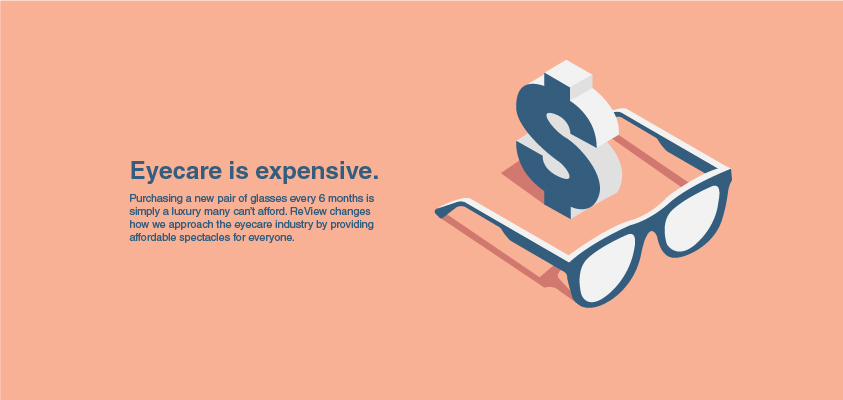
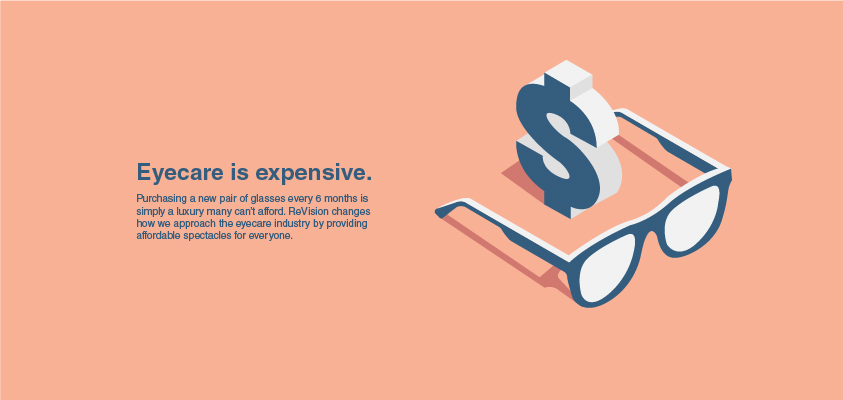
Added illustrations and further information

Changed region(s): [[0.1542, 0.48, 0.4626, 0.6], [0.1542, 0.39, 0.4626, 0.45]]

diff --git a/Code/css/styles.css b/Code/css/styles.css
@@ -1,1 +1,1 @@
-@import url("https://fonts.googleapis.com/css?family=Raleway:400,600|Roboto|Roboto+Slab|Playfair+Display|Barlow+Condensed:400,600");.card1{position:relative;flex:1 1 100%;margin:31px 0;background:#fff}.set1{color:#345d7e}.set2{width:60%;margin:0 auto}.levi{transition:transform .5s}.levi::after{position:absolute;top:0;left:0;width:100%;height:100%;transition:opacity 2s cubic-bezier(0.165, 0.84, 0.44, 1);box-shadow:0 8px 17px 0 rgba(0,0,0,0.2),0 6px 20px 0 rgba(0,0,0,0.15);content:'';opacity:0;z-index:-1}.levi:hover,.levi:focus{transform:scale3d(1.006, 1.006, 1)}.levi:hover::after,.levi:focus::after{opacity:1}.shopsp{padding-top:50px}body{padding-top:20px}a:link{text-decoration:none}a:visited{text-decoration:none}a:hover{text-decoration:underline}a:active{text-decoration:none}footer{width:100%;height:100%;background-color:#f8b195;color:#FFF}nav{background-color:#f8b195;padding-top:10px;padding-bottom:10px}h3{font-family:Raleway, sans-serif;font-size:18px}h4{font-family:Raleway, sans-serif;font-size:20px;font-weight:600}h5{font-family:'Barlow Condensed', sans-serif}.ft1{font-family:'Barlow Condensed', sans-serif;font-size:35px}.ut1{margin-top:-25px}.btn-secondary{background-color:transparent;border-color:#ccc;color:black}.btn-primary-outline{background-color:transparent;border-color:#ccc;color:white}input{border:0;outline:0;background:transparent;border-bottom:1px solid #345d7e}input,textarea{color:#345d7e}input.transparent-input{background-color:transparent !important;border:none !important}h6{font-size:13px}.ft3{font-size:25px;color:#345d7e}.ft4{color:#345d7e}.nm1{width:45px;height:45px;margin:0 auto}.new{font-family:'Barlow Condensed', sans-serif;font-weight:600;color:#345d7e}.sp1{padding-top:20px}.sp2{padding-top:15px}.cr1{color:white}.nav-link{color:white}.nav-link:hover{color:grey}.nhover{width:80px}.sb{margin-bottom:-7px}.details{font-size:15px;font-family:Raleway, sans-serif;font-weight:400;margin-top:-10px}.details2{font-size:13px;font-family:Raleway, sans-serif;font-weight:400;margin-top:-16px}.spacing12{padding-bottom:15px}.title{padding-top:13px;padding-bottom:12px}
+@import url("https://fonts.googleapis.com/css?family=Raleway:400,600|Roboto|Roboto+Slab|Playfair+Display|Barlow+Condensed:400,600");.card1{position:relative;flex:1 1 100%;margin:31px 0;background:#fff}.set1{color:#345d7e;text-align:left}.set2{margin:0 auto;text-align:left}.levi{transition:transform .5s}.levi::after{position:absolute;top:0;left:0;width:100%;height:100%;transition:opacity 2s cubic-bezier(0.165, 0.84, 0.44, 1);box-shadow:0 8px 17px 0 rgba(0,0,0,0.2),0 6px 20px 0 rgba(0,0,0,0.15);content:'';opacity:0;z-index:-1}.levi:hover,.levi:focus{transform:scale3d(1.006, 1.006, 1)}.levi:hover::after,.levi:focus::after{opacity:1}.shopsp{padding-top:50px}body{padding-top:20px}a:link{text-decoration:none}a:visited{text-decoration:none}a:hover{text-decoration:underline}a:active{text-decoration:none}footer{width:100%;height:100%;background-color:#f8b195;color:#FFF}nav{background-color:#f8b195;padding-top:10px;padding-bottom:10px}h3{font-family:Raleway, sans-serif;font-size:18px}h4{font-family:Raleway, sans-serif;font-size:20px;font-weight:600}h5{font-family:'Barlow Condensed', sans-serif}.ft1{font-family:'Barlow Condensed', sans-serif;font-size:35px}.ut1{margin-top:-25px}.btn-secondary{background-color:transparent;border-color:#ccc;color:black}.btn-primary-outline{background-color:transparent;border-color:#ccc;color:white}input{border:0;outline:0;background:transparent;border-bottom:1px solid #345d7e}input,textarea{color:#345d7e}input.transparent-input{background-color:transparent !important;border:none !important}h6{font-size:13px}.ft3{font-size:25px;color:#345d7e}.ft4{color:#345d7e}.nm1{width:75 px;height:90px;margin:0 auto}.new{font-family:'Barlow Condensed', sans-serif;font-weight:600;color:#345d7e}.sp1{padding-top:20px}.sp2{padding-top:15px}.cr1{color:white}.nav-link{color:white}.nav-link:hover{color:grey}.nhover{width:80px}.sb{margin-bottom:-7px}.details{font-size:15px;font-family:Raleway, sans-serif;font-weight:400;margin-top:-10px}.details2{font-size:13px;font-family:Raleway, sans-serif;font-weight:400;margin-top:-16px}.spacing12{padding-bottom:15px}.title{padding-top:13px;padding-bottom:12px}

diff --git a/Code/index.html b/Code/index.html
@@ -59,20 +59,53 @@
       </a>
     </div>
 
-    <div class="container text-center sp1">
+    <div class="container text-center sp1 mt-4">
     <div class="row">
-    <div class="col-lg-12 col-md-12">
+    <div class="col-lg-6 col-md-6">
 
-  <div class="intro">
-      <h1 class="set1">ReVision the Future of Eyecare</h1>
+  <div class="intro1">
+      <h2 class="set1">ReVision: The Future of Eyecare</h2>
       <p class="set2">ReVision is a platform that sells refurbished eyewear for a fraction of the original price. This allows children from low income families to afford eyewear while also encouraging people to contribute to the community.</p>
     </div>
 
     </div>
+
+    <div class="col-lg-6 col-md-6">
+
+  <div class="intro2">
+      <img src="img/logo1.png" alt="">
+    </div>
+
+    </div>
     </div>
     </div>
 
-    <div class="container text-center sp1">
+    <div class="container text-center sp1 mt-5">
+    <div class="row">
+    <div class="col-lg-6 col-md-6">
+
+  <div class="intro2">
+      <img src="img/ill2.png" alt="">
+    </div>
+
+    </div>
+
+    <div class="col-lg-6 col-md-6">
+
+  <div class="intro1">
+      <h2 class="set1">ReVision: The Community</h2>
+      <p class="set2">ReVision opens a channel for building a community that is about giving to one another.</p>
+    </div>
+
+    </div>
+
+
+    </div>
+    </div>
+
+    <hr>
+
+    <div class="container text-center sp1 mt-5">
     <div class="row">
     <div class="col-lg-4 col-md-4">
       <div class="nm1">
@@ -95,7 +128,7 @@
         <img class="img-fluid" src="img/nm3.png" alt="">
       </div>
       <h4 class="sp2">Give back</h4>
-      <p>Give back by selling your previous pair that it's in good condition.</p>
+      <p>Give back by selling your previous pair that is in good condition.</p>
     </div>
     </div>
     </div>
@@ -174,7 +207,6 @@
                     <h6 class="card-subtitle mt-2 ml-3 sb">Aviator</h6>
                     <hr class="u1">
                      <h4 class="card-title ml-3">Ray ban </h4>
-                     <p class="details ml-3">The All New Jordans</p>
                      <p class="details2 ml-3">CAD 50</p>
                   </div>
                 </div>

diff --git a/Code/scss/styles.scss b/Code/scss/styles.scss
@@ -5,21 +5,20 @@ $card-padding: 20px;
 $grid-gutter: 31px;
 
 .card1 {
-
   position: relative;
   flex: 1 1 100%;
   margin: $grid-gutter 0;
   background: lighten($color-bg, 3%);
-
 }
 
 .set1 {
   color: #345d7e;
+  text-align: left;
 }
 
 .set2 {
-  width: 60%;
   margin: 0 auto;
+  text-align: left;
 }
 
 .levi {
@@ -154,8 +153,8 @@ h6 {
 }
 
 .nm1 {
-  width: 45px;
-  height: 45px;
+  width: 75 px;
+  height: 90px;
   margin: 0 auto;
 }
 
